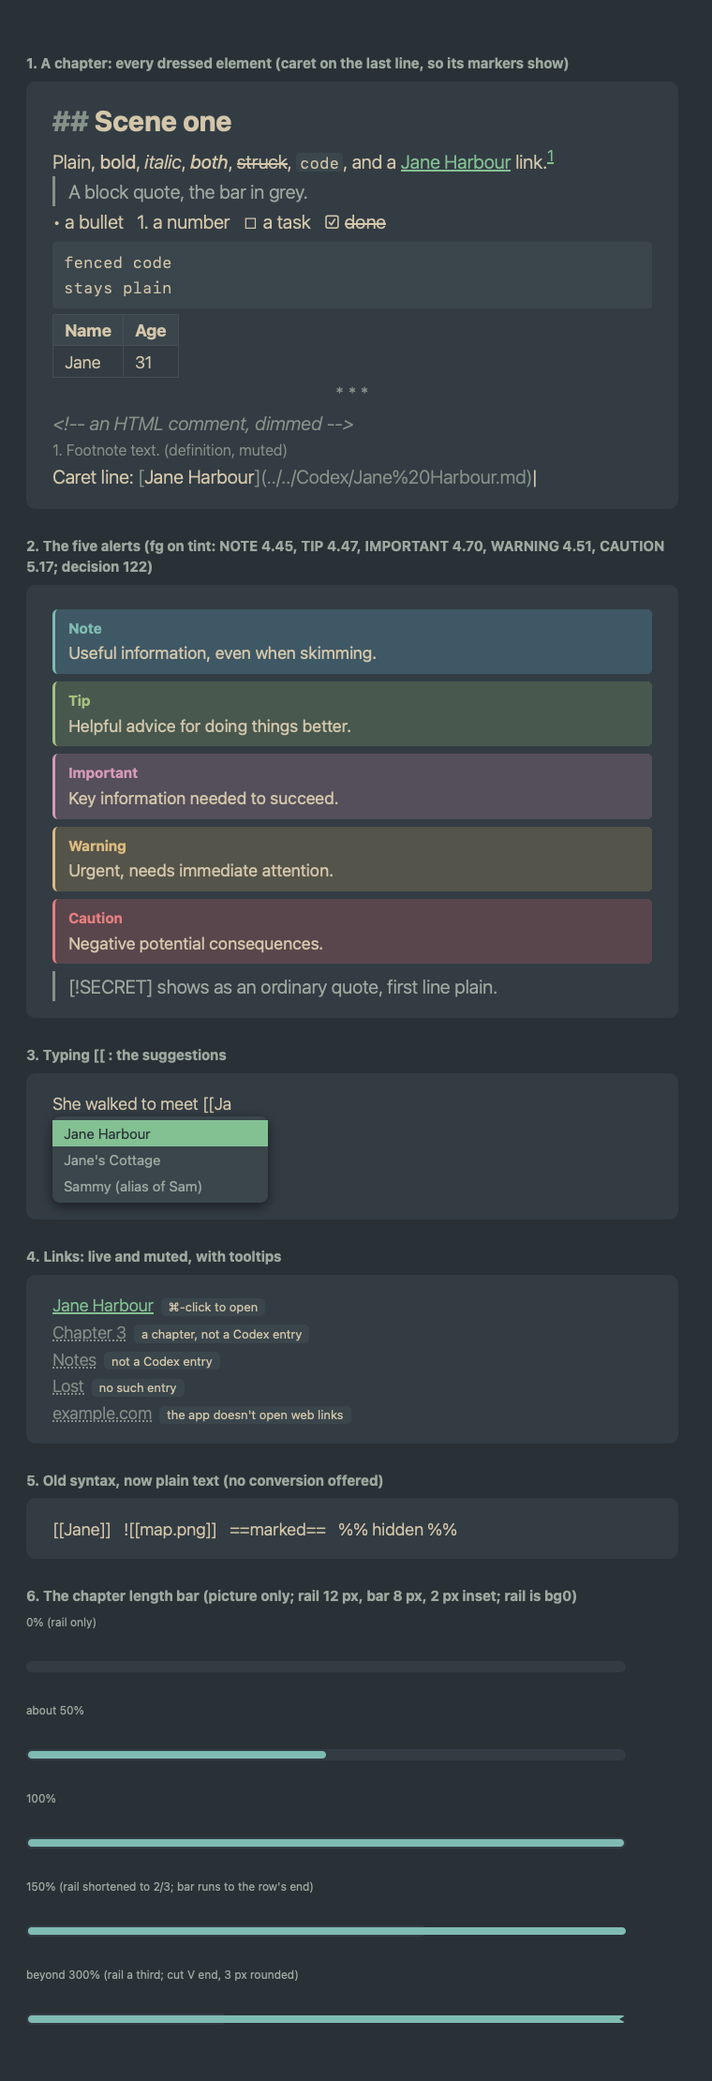
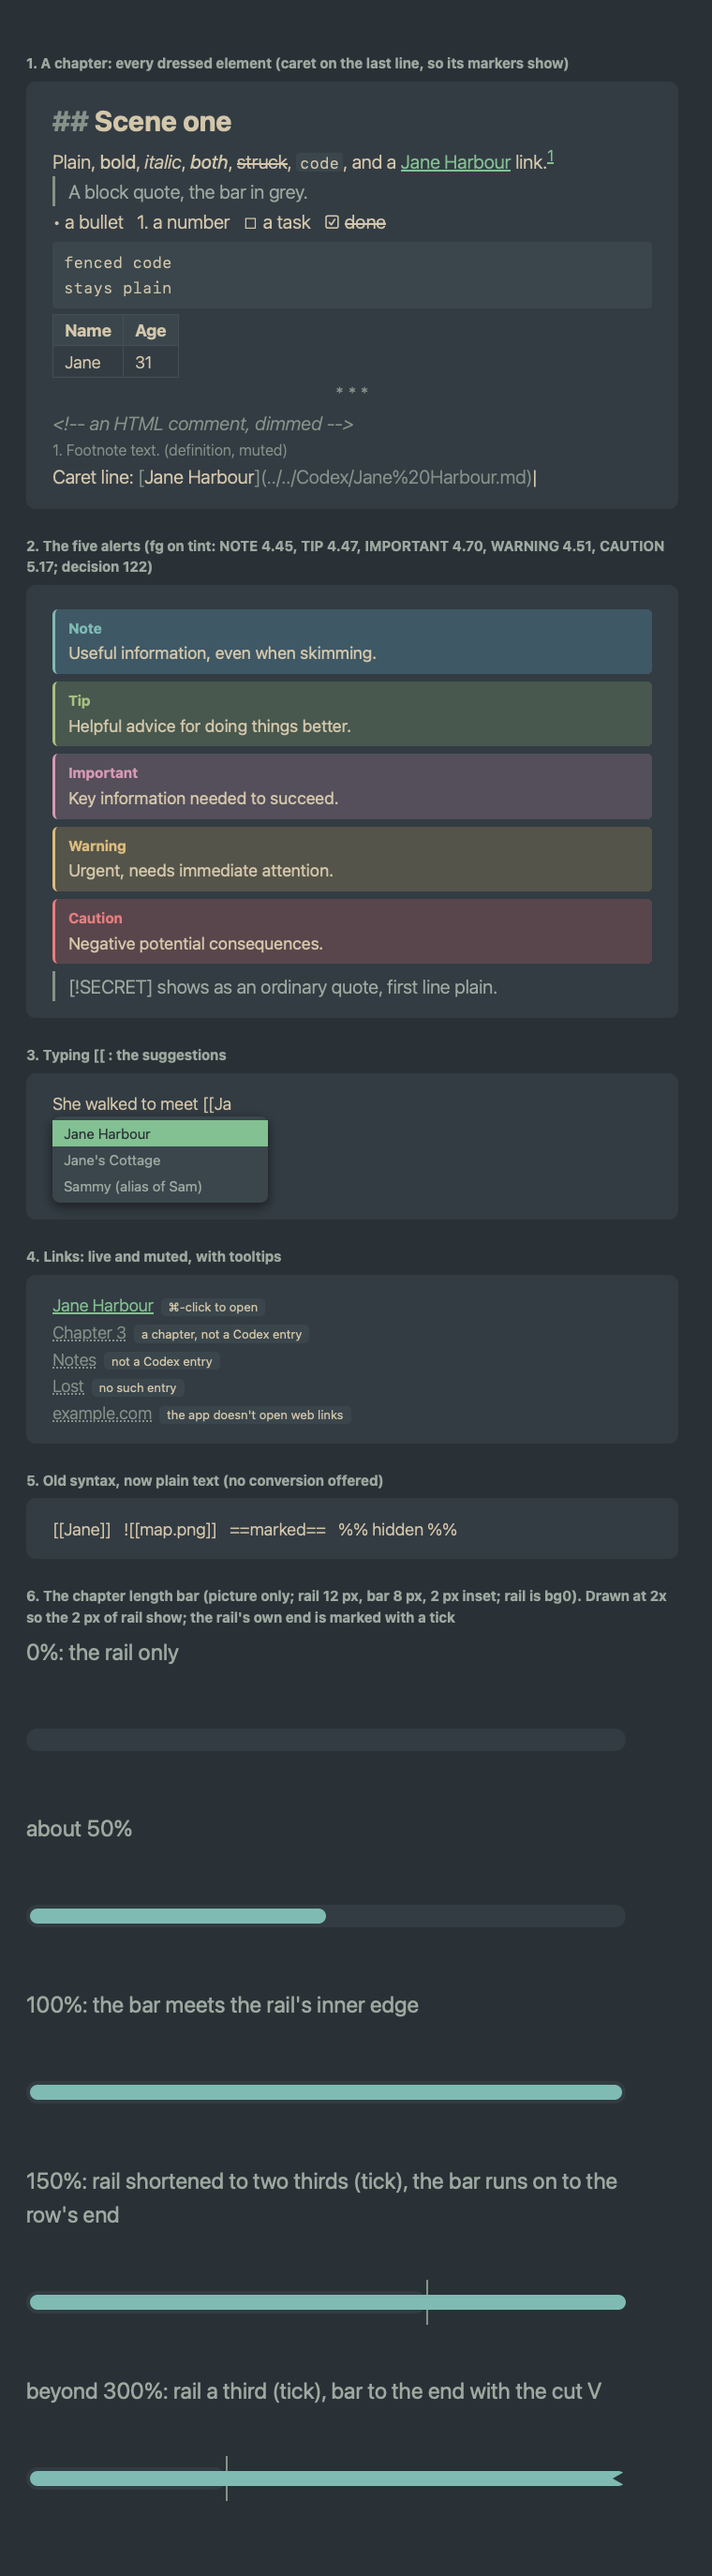
Brief 20 H1 round two: GitHub probe, link-moving actions, rulings recorded, mock-up rail fixed

diff --git a/docs/gfm-mockups/index.html b/docs/gfm-mockups/index.html
@@ -59,9 +59,12 @@ stays plain</pre>
 </div>
 <h2>5. Old syntax, now plain text (no conversion offered)</h2>
 <div class="card plain" style="font-size:18px">[[Jane]] &nbsp; ![[map.png]] &nbsp; ==marked== &nbsp; %% hidden %%</div>
-<h2>6. The chapter length bar (picture only; rail 12 px, bar 8 px, 2 px inset; rail is bg0)</h2>
-<div class="lbl">0% (rail only)</div><div class="strip"><div class="rail"></div></div>
+<h2>6. The chapter length bar (picture only; rail 12 px, bar 8 px, 2 px inset; rail is bg0). Drawn at 2x so the 2 px of rail show; the rail's own end is marked with a tick</h2>
+<style>.z{zoom:2;max-width:320px}.z .strip{max-width:320px}.tick{position:absolute;top:26px;width:1px;height:24px;background:var(--g1)}</style>
+<div class="z">
+<div class="lbl">0%: the rail only</div><div class="strip"><div class="rail"></div></div>
 <div class="lbl">about 50%</div><div class="strip"><div class="rail"><div class="bar" style="width:calc(50% - 2px)"></div></div></div>
-<div class="lbl">100%</div><div class="strip"><div class="rail"><div class="bar" style="right:2px"></div></div></div>
-<div class="lbl">150% (rail shortened to 2/3; bar runs to the row's end)</div><div class="strip"><div class="rail" style="right:33.3%"><div class="bar" style="right:2px"></div></div><div class="bar" style="left:2px;top:34px;width:calc(100% - 2px)"></div></div>
-<div class="lbl">beyond 300% (rail a third; cut V end, 3 px rounded)</div><div class="strip"><div class="rail" style="right:66.6%"></div><div class="bar" style="left:2px;top:34px;width:calc(100% - 2px);clip-path:polygon(0 0,100% 0,calc(100% - 7px) 50%,100% 100%,0 100%)"></div></div>
+<div class="lbl">100%: the bar meets the rail's inner edge</div><div class="strip"><div class="rail"><div class="bar" style="right:2px"></div></div></div>
+<div class="lbl">150%: rail shortened to two thirds (tick), the bar runs on to the row's end</div><div class="strip"><div class="rail" style="right:33.34%"></div><div class="tick" style="left:66.66%"></div><div class="bar" style="left:2px;top:34px;width:calc(100% - 2px)"></div></div>
+<div class="lbl">beyond 300%: rail a third (tick), bar to the end with the cut V</div><div class="strip"><div class="rail" style="right:66.66%"></div><div class="tick" style="left:33.34%"></div><div class="bar" style="left:2px;top:34px;width:calc(100% - 2px);clip-path:polygon(0 0,100% 0,calc(100% - 7px) 50%,100% 100%,0 100%)"></div></div>
+</div>

diff --git a/docs/gfm.md b/docs/gfm.md
@@ -35,7 +35,7 @@ Written 7 November 2026, on branch `gfm` (from `main` at `739fe14`). Read only: 
 - **Proposal: `@lezer/markdown` plus `@codemirror/language`**, as approved. `@lezer/markdown` exports the `GFM` extension set (tables, task lists, strikethrough, autolinks) and the `Footnote`-less base. `@codemirror/language` supplies `syntaxTree`, `ensureSyntaxTree` and the parse scheduling. I found **no need for `lang-markdown`**: the dressing needs only the tree, not its keymap, its fenced-code language loading or its completions. A `@lezer/highlight` dependency isn't needed either, since the dressing makes its own decorations from node names.
 - **Footnotes aren't in the GFM set.** Proposal: a small custom `MarkdownConfig` (about 40 lines): a block parser for `[^id]: text` lines (with 4-space continuation) and an inline parser for `[^id]`, giving two node types. Dressing: the reference as superscript-like text in the link colour, the definition's `[^id]:` marker muted. No behaviour (no jumping between them) in this brief.
 - **Alerts aren't a parser feature.** Proposal: no parser change. The tree gives a `Blockquote`; the dressing checks that its **first line matches `^>\s*\[!(NOTE|TIP|IMPORTANT|WARNING|CAUTION)\]\s*$`** and, if so, draws the box. Anything else after `> [!` is the ordinary quote. This is a display rule over an unchanged tree, so nothing saved changes.
-- **GitHub's rules for alerts** (read from GitHub's docs on 7 November 2026): five types, syntax as above, "a Markdown extension based on the blockquote syntax", and **"alerts cannot be nested within other elements"** (so an alert inside a list or another quote is not one; I'd match that: only a top-level blockquote counts). **Not stated by GitHub:** case sensitivity, text after the marker on its line, unknown types (the docs show only uppercase and always put text on the next line). **Proposal where GitHub is silent: uppercase only, and nothing may follow the marker on its line**, which is the strictest reading and matches every documented example; a variant would then show as a plain quote, never as a wrong box. Kenny can ask for looser.
+- **GitHub's rules for alerts** (read from GitHub's docs on 7 November 2026): five types, syntax as above, "a Markdown extension based on the blockquote syntax", and **"alerts cannot be nested within other elements"** (so an alert inside a list or another quote is not one; I'd match that: only a top-level blockquote counts). **Not stated by GitHub:** case sensitivity, text after the marker on its line, unknown types (the docs show only uppercase and always put text on the next line). *(Superseded by § 8: GitHub was probed and the rules below are GitHub's own.)*
 - **Moving other code onto the same parser (proposals, none built):**
   - **Word count:** a parse of the whole text is more than counting needs. Propose it **stays a regex** but strips HTML comments instead of `%%` (`<!--[\s\S]*?-->`), kept pure and cheap, since it runs on every keystroke and in `npm run check`.
   - **Link scan and rewriter:** these read **files that aren't open in an editor** and are tested by a fuzzer. Proposal: **don't move them in this brief.** Change the scan to recognise inline `[text](target)` only (dropping `[[ ]]`), keep its hand-written scanner, and keep the fuzzer. Moving the rewriter onto `@lezer/markdown` would be allowed only if the existing fuzzer (`linkRewriterFuzz.test.ts`) still proves that no byte outside the planned spans changes; I'd rather not risk that for a gain of exact code-span handling.
@@ -89,3 +89,65 @@ Measured as WCAG 2 contrast on flat sRGB: `--ef-fg` `#d3c6aa` on the tint, and t
 5. Tables: muted pipes only, or a grid; task boxes without click-to-tick; the open-link key (§6).
 6. Images: show only in 1.12.0, insert later (§6).
 7. TIP and IMPORTANT icons (H2).
+
+## 8. Round two (rulings of 7 November 2026, and what they found)
+
+### 8.1 GitHub's rendering, probed
+One file pushed to a private throwaway repo (`KennyRN/sf-gfm-probe-throwaway`) and read back as GitHub's own rendered HTML (`Accept: application/vnd.github.html+json`). **Match GitHub:**
+
+| Case | GitHub renders |
+|---|---|
+| `> [!NOTE]` then a body line | an alert |
+| `> [!note]` (lowercase) | **an alert: the marker is case-insensitive** |
+| `> [!NOTE] text after the marker` | **a plain quote**, the marker as plain text |
+| `> [!FOO]` (unknown type) | a plain quote |
+| `> [!TIP]` alone, no body | **a plain quote** (an empty alert is not one) |
+| an alert inside a list item | a plain quote (it can't nest) |
+| an alert inside another quote | a plain quote |
+| `[x](../Codex/Jane%20Harbour.md)` | a link |
+| `[x](<../Codex/Jane Harbour.md>)` | a link (its href is the `%20` form) |
+| `[x](../Codex/Jane Harbour.md)` (a raw space) | **not a link**, plain text |
+| `[^1]` and `[^1]: …` | a footnote, with a back-link |
+
+So **the display rule is: a top-level block quote whose first line is exactly `[!TYPE]` (any case, nothing else on the line) with at least one more line in the quote.** This replaces my uppercase-only proposal. The link form is **confirmed: a relative path with `%20`** (angle brackets also work, and the rewriter may read them, but the app writes `%20`; a raw space is never written or treated as a link). **The throwaway repo could not be deleted**: my token lacks the `delete_repo` scope, which needs an interactive `gh auth refresh -h github.com -s delete_repo`. It is private and holds only the probe file; Kenny can delete it in the repository's Settings, or run that command and `gh repo delete KennyRN/sf-gfm-probe-throwaway`.
+
+### 8.2 Which actions move a file that can hold links
+Files that hold links: chapters (`_story-library/<book>/<ch>.md`), Codex notes (`Codex/<name>.md`), and the fields' files: the synopsis (`_story-library/novel-<book>.md`), the series description (`_story-library/series.md`) and plot notes (`_backstage/storyforge/<book>/chapters/<ch>.md`). **A link in a field is relative to the file that stores the field.** The paths to a Codex note, from each:
+
+| Written in | Link to a Codex note |
+|---|---|
+| a chapter | `../../Codex/X.md` |
+| a Codex note | `X.md` |
+| the synopsis (`novel-<book>.md`) or the series description | `../Codex/X.md` |
+| a plot note | `../../../../Codex/X.md` |
+
+| Action | Moves a file? | Do its outgoing links keep working? |
+|---|---|---|
+| Archive, unarchive, move a Codex item, rename or remove a Codex folder, convert a note to a folder | **No.** `codex.md` only: Codex folders are virtual, notes stay flat in `Codex/` | Yes, nothing moved |
+| Reorder chapters or books, rename a book's or chapter's title | No (titles live in the sidecars and `series.md`; files keep their ids) | Yes |
+| **Rename a Codex note** (`renameNote`) | Yes, but within `Codex/` | Yes: the folder is the same, so its own links still resolve. Incoming links are the rewriter's job (now `[text](path)` only) |
+| Cross-book chapter move (found by the reconciler after the files move outside the app) | Yes, between `_story-library/<book>/` folders | Yes: same depth; its sidecars move with it |
+| Book folder rename outside the app (reconciler) | Yes | Yes: same depth |
+| A chapter or Codex note renamed outside the app | Yes, same folder | Yes for its own links; links *to* a renamed Codex note are not rewritten by the reconciler (it never writes prose), so they show as "no such entry" until the author fixes them |
+| A file moved by the author **to a different depth** outside the app (a Codex note into a real subfolder, say) | Yes | **No.** The reconciler won't rewrite prose. |
+
+**Fix proposed for the last row (and only that):** do nothing to the text. The links show muted as "no such entry", which is true, and the author sees them. **Optional, for Kenny:** the reconciliation summary could list the moved files whose relative links now point nowhere, so nothing is silent; it would write nothing. **Recovery copies** (`_sf-backup/recovery/…`) hold text copied out of its folder, so their relative links won't resolve; they are copies to read, not live files. One more place: **text shown away from its file** (the series tab's synopsis in the context panel, the read-only chapter text) is resolved from its source file, never from where it is drawn.
+
+### 8.3 The rename and the old forms
+`[[X]]`, embeds and unquoted `[[X]]` frontmatter values are no longer read by the rewriter (decision 157), so `LinkForm`'s `wikilink` and `embed`, the "unquoted" report and its test cases go. **The unreadable-frontmatter check stays**, and `linkRewriterFuzz.test.ts` must still pass.
+
+### 8.4 Comments, protected text and the aids
+- **The word count stays a regex** (HTML comments). **A test** compares it with the parser's comment spans across every fixture, with `<!--` inside code and an unclosed `<!--` among the cases; any disagreement is listed in the report.
+- **Protected text uses only the parse tree at runtime.** The old line scan survives only in tests this release, as a check on the fixtures; disagreements listed. The 20 ms wait is accepted, **tested on a long chapter just after it opens.**
+
+### 8.5 Tables, tasks, keys, images, icons
+- **Tables:** muted pipes and alignment row for 1.12.0. **A grid goes to Future** (the mock-up's gridded table is withdrawn as an option). **No click-to-tick.**
+- **⌘-Return opens a link.** I checked for clashes: the menu items in `src/ui/menu.ts` and the editor's keymap don't bind ⌘-Return (to be confirmed by a test that lists the key bindings at build).
+- **Images: they move to an images brief.** `read_cover(target, filename)` takes only the series or a book code and an exact `cover.<ext>` name, and reads from that book's backstage folder. Reading a file named in a link's path would need a new Rust command, so by the ruling, showing and inserting both move to the images brief. Nothing in 1.12.0.
+- **Icons (H2, supplied by Kenny, both Tabler 2.2, filled):** **TIP is `square-rounded-check`, IMPORTANT is `square-rounded-arrow-right`.** They are recorded in `Icon Licences.md` at the build; NOTE, WARNING and CAUTION keep the notice icons. They are final, not stand-ins. The SVGs are saved in `docs/gfm-mockups/icons/`.
+
+### 8.6 The chapter bar's vertical place
+**Centred in the strip: the rail's top 32 px from the strip's top (the strip is 76 px, so 32 px above and below the 12 px rail), the bar 2 px inside it.** Centred keeps it equally clear of the chapter box above and the stats section below, whatever the window's height; nothing else lives in the strip. Aligned left and right with the chapter box.
+
+### 8.7 The mock-up, fixed
+Section 6 is redrawn at 2x with the rail's own end marked by a tick: at 150% the rail ends two thirds along and the bar runs on to the row's end; beyond 300% the rail is a third and the bar has the cut V. The earlier version hid the rail behind the bar.
